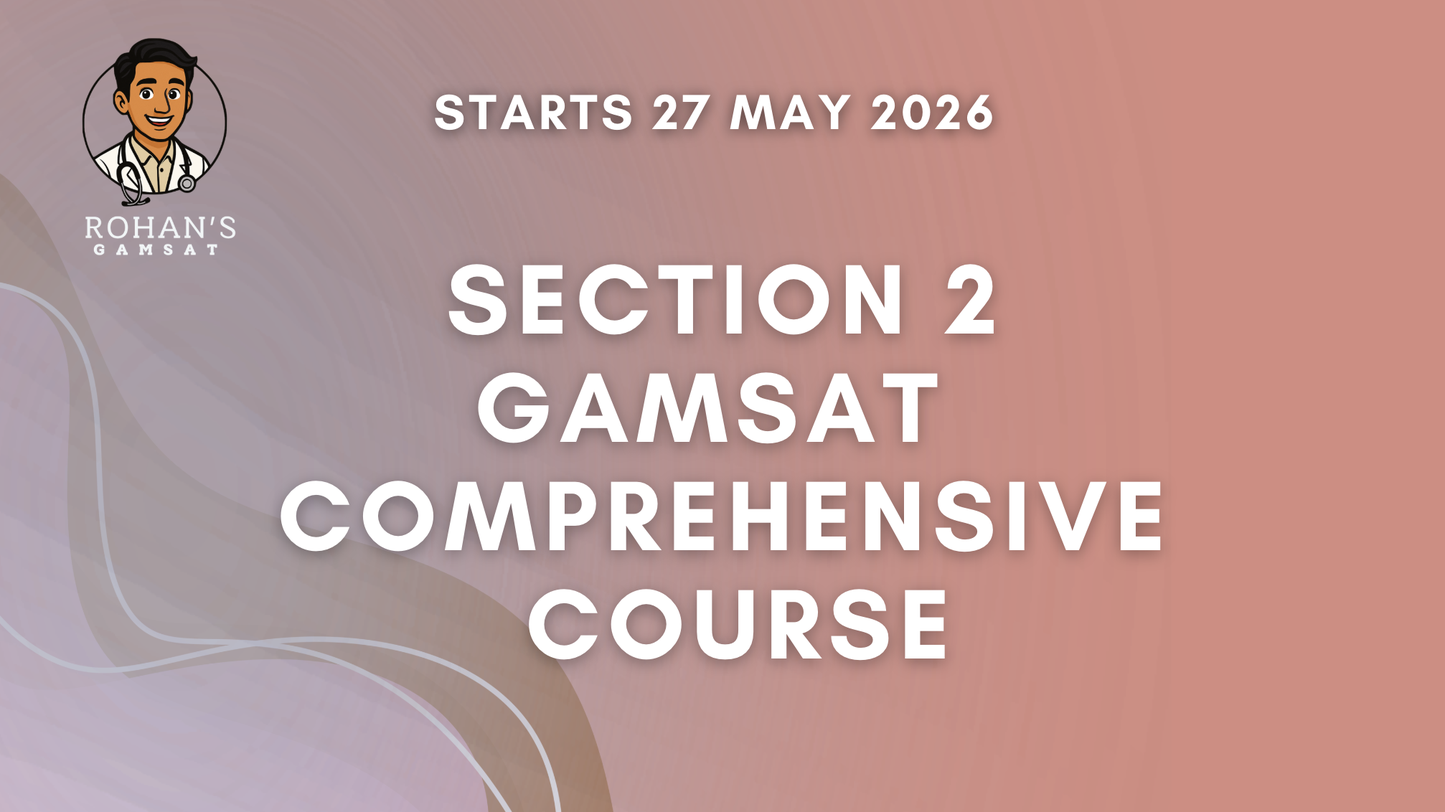
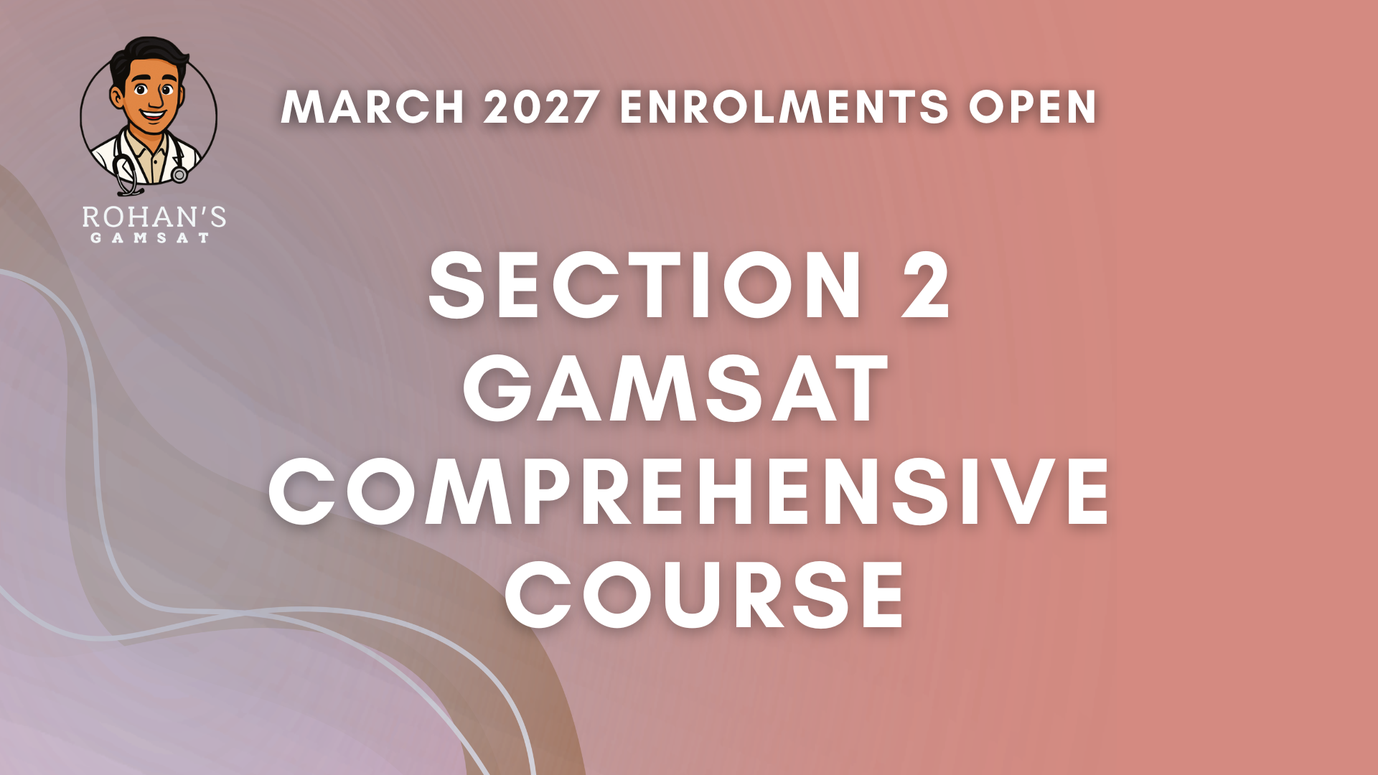
Update comprehensive course artwork and class counts
Replace the hero card images on the comprehensive, S1 and S2 course pages
with the new March 2027 artwork. Both PNG and WebP written; the new files
are smaller than the ones they replace.

Update the class counts to the current course structure: 12 classes per
section and 24 across the full course, previously 10 and 20. Duration
follows from that, ten weeks to twelve, applied across the three course
pages plus courses.html, mastery.html, blueprint.html, the catalog and the
comprehensive quiz email sequence.

Left alone deliberately: the private mentoring 10-class pack, which is a
different product, and the quiz's 10-week study plan, which is a plan
rather than the course length.

diff --git a/courses/comprehensive.html b/courses/comprehensive.html
@@ -7,16 +7,16 @@
   <script src="/js/analytics.js" defer></script>
   <script src="/js/posthog-init.js" defer></script>
   <title>GAMSAT Live Comprehensive Course | Rohan's GAMSAT</title>
-  <meta name="description" content="20 live coaching classes, essay feedback, 50+ hours of content, and a 100% refund guarantee. Make March 2027 your final GAMSAT sitting.">
+  <meta name="description" content="24 live coaching classes, essay feedback, 50+ hours of content, and a 100% refund guarantee. Make March 2027 your final GAMSAT sitting.">
   <meta property="og:title" content="GAMSAT Live Comprehensive Course: Make March 2027 Your Final Sitting">
-  <meta property="og:description" content="20 live coaching classes, essay feedback, 50+ hours of content, and a 100% refund guarantee. Make March 2027 your final GAMSAT sitting.">
+  <meta property="og:description" content="24 live coaching classes, essay feedback, 50+ hours of content, and a 100% refund guarantee. Make March 2027 your final GAMSAT sitting.">
   <meta property="og:image" content="https://www.rohanstutoring.com/assets/rohan/rohan-square-background.webp">
   <meta property="og:url" content="https://www.rohanstutoring.com/courses/comprehensive">
   <link rel="canonical" href="https://www.rohanstutoring.com/courses/comprehensive">
   <meta property="og:type" content="product">
   <meta name="twitter:card" content="summary_large_image">
   <meta name="twitter:title" content="GAMSAT Live Comprehensive Course: Make March 2027 Your Final Sitting">
-  <meta name="twitter:description" content="20 live classes, essay feedback, 50+ hours of content, 100% refund guarantee. $1,599 AUD.">
+  <meta name="twitter:description" content="24 live classes, essay feedback, 50+ hours of content, 100% refund guarantee. $1,599 AUD.">
   <meta name="twitter:image" content="https://www.rohanstutoring.com/assets/rohan/rohan-square-background.webp">
   <link rel="icon" href="../assets/favicon.ico">
   <link rel="icon" type="image/png" sizes="32x32" href="../assets/favicon-32x32.png">
@@ -418,7 +418,7 @@
     "@context": "https://schema.org",
     "@type": "Course",
     "name": "GAMSAT Live Comprehensive Course",
-    "description": "20 live coaching classes, essay feedback, 50+ hours of content, and a 100% refund guarantee. Covers GAMSAT Sections 1 and 2 with small, focused live instruction.",
+    "description": "24 live coaching classes, essay feedback, 50+ hours of content, and a 100% refund guarantee. Covers GAMSAT Sections 1 and 2 with small, focused live instruction.",
     "url": "https://www.rohanstutoring.com/courses/comprehensive",
     "provider": {
       "@type": "EducationalOrganization",
@@ -448,7 +448,7 @@
         "name": "How long is each class, and when do they run?",
         "acceptedAnswer": {
           "@type": "Answer",
-          "text": "Each session is 1 hour. Classes start late October and run for ten weeks. We confirm the exact weekly times before the first class, and every session is recorded if you cannot make one live."
+          "text": "Each session is 1 hour. Classes start late October and run for twelve weeks. We confirm the exact weekly times before the first class, and every session is recorded if you cannot make one live."
         }
       },
       {
@@ -598,7 +598,7 @@
         <span class="hero-v3__spots">Early bird</span>
         <span class="hero-v3__availability-copy">
           <span class="hero-v3__availability-main">$1,599 until 1 October, then $1,799.</span>
-          <span class="hero-v3__availability-sub">Classes start late October and run for ten weeks, up to the March 2027 sitting.</span>
+          <span class="hero-v3__availability-sub">Classes start late October and run for twelve weeks, up to the March 2027 sitting.</span>
         </span>
         <div class="hero-v3__countdown" data-countdown-v3 data-countdown-v3-target="2026-10-01T23:59:59+10:00" aria-label="Time remaining on early bird pricing">
           <span class="hero-v3__countdown-unit"><strong data-cd-days>00</strong><span>Days</span></span>
@@ -614,7 +614,7 @@
             Sit GAMSAT in March 2027. <em>Don't sit it again.</em>
           </h1>
           <p class="hero-v3__sub reveal reveal--delay-1 visible">
-            Ten weeks of live coaching, real essay feedback, and small, focused classes. The point isn't to cover more content. It's to walk into the exam already knowing how you'll handle it.
+            Twelve weeks of live coaching, real essay feedback, and small, focused classes. The point isn't to cover more content. It's to walk into the exam already knowing how you'll handle it.
           </p>
 
           <div class="hero-v3__proof reveal reveal--delay-2 visible">
@@ -658,8 +658,8 @@
             <img src="/assets/courses/comprehensive-course-card.webp" alt="GAMSAT Live Comprehensive Course" width="960" height="540" loading="eager" fetchpriority="high">
           </div>
           <div class="hero-v3__card-head">
-            <span class="hero-v3__card-eyebrow">10 weeks  20 live classes</span>
-            <h2>What the ten weeks actually look like.</h2>
+            <span class="hero-v3__card-eyebrow">12 weeks  24 live classes</span>
+            <h2>What the twelve weeks actually look like.</h2>
           </div>
           <ol class="hero-v3__roadmap">
             <li>
@@ -817,7 +817,7 @@
             <div class="value-item__num">02</div>
           </div>
           <div class="value-item__body">
-            <h3>20 Live Coaching Classes</h3>
+            <h3>24 Live Coaching Classes</h3>
             <p>20 live sessions on Zoom, each 1 hour. Classes stay small and focused, so every session is genuinely interactive. You can ask questions, clear up what's not landing, and leave each session with something concrete. The weekly schedule is confirmed before the first class in late October.</p>
             <span class="value-item__value">Value: $1,200</span>
           </div>
@@ -863,7 +863,7 @@
         <div class="value-summary__inner">
           <div class="value-summary__stack">
             <div class="value-summary__row"><span>GAMSAT Library (50+ hrs)</span><span>$299</span></div>
-            <div class="value-summary__row"><span>20 Live Classes</span><span>$1,200</span></div>
+            <div class="value-summary__row"><span>24 Live Classes</span><span>$1,200</span></div>
             <div class="value-summary__row"><span>250+ S1 Questions</span><span>$149</span></div>
             <div class="value-summary__row"><span>Live Essay Feedback</span><span>$200</span></div>
             <div class="value-summary__row"><span>Direct Access to Rohan</span><span>$999</span></div>
@@ -876,7 +876,7 @@
               <span class="value-summary__label">Early bird · closes 1 October</span>
             </div>
             <a href="/checkout/?product=comprehensive" class="btn btn--primary btn--lg">Enrol Now →</a>
-            <p class="value-summary__note">Enrol before 1 October and you pay $1,599 instead of $1,799. Classes start late October and run for ten weeks.</p>
+            <p class="value-summary__note">Enrol before 1 October and you pay $1,599 instead of $1,799. Classes start late October and run for twelve weeks.</p>
           </div>
         </div>
       </div>
@@ -987,7 +987,7 @@
       <div class="faq__list">
         <details class="faq__item reveal">
           <summary>How long is each class, and when do they run?</summary>
-          <div class="faq__answer"><p>Each session is 1 hour. Classes start late October and run for ten weeks. We confirm the exact weekly times before the first class, and every session is recorded if you cannot make one live.</p></div>
+          <div class="faq__answer"><p>Each session is 1 hour. Classes start late October and run for twelve weeks. We confirm the exact weekly times before the first class, and every session is recorded if you cannot make one live.</p></div>
         </details>
         <details class="faq__item reveal">
           <summary>Are the live classes recorded?</summary>
@@ -1019,7 +1019,7 @@
     <div class="container">
       <div class="product-final-cta__inner reveal">
         <h2>Enrolments are<br><em>open.</em></h2>
-        <p>Early bird pricing closes 1 October. Classes start late October and run for ten weeks, up to the March 2027 sitting.</p>
+        <p>Early bird pricing closes 1 October. Classes start late October and run for twelve weeks, up to the March 2027 sitting.</p>
         <a href="/checkout/?product=comprehensive" class="btn btn--white btn--lg">Enrol for $1,599 →</a>
         <p class="product-final-cta__note">$1,599 AUD until 1 October, then $1,799 · 100% refund guarantee · Weekly class times confirmed before the first class</p>
       </div>

diff --git a/courses/s1-comprehensive.html b/courses/s1-comprehensive.html
@@ -7,16 +7,16 @@
   <script src="/js/analytics.js" defer></script>
   <script src="/js/posthog-init.js" defer></script>
   <title>Section 1 GAMSAT Comprehensive Course | Rohan's GAMSAT</title>
-  <meta name="description" content="10 live Section 1 coaching classes, 250+ targeted S1 questions, 50+ hours of recorded content, and a 100% refund guarantee.">
+  <meta name="description" content="12 live Section 1 coaching classes, 250+ targeted S1 questions, 50+ hours of recorded content, and a 100% refund guarantee.">
   <meta property="og:title" content="Section 1 GAMSAT Comprehensive Course">
-  <meta property="og:description" content="10 live S1 coaching classes, 250+ targeted questions, 50+ hours of content, and a 100% refund guarantee.">
+  <meta property="og:description" content="12 live S1 coaching classes, 250+ targeted questions, 50+ hours of content, and a 100% refund guarantee.">
   <meta property="og:image" content="https://www.rohanstutoring.com/assets/rohan/rohan-square-background.webp">
   <meta property="og:url" content="https://www.rohanstutoring.com/courses/s1-comprehensive">
   <link rel="canonical" href="https://www.rohanstutoring.com/courses/s1-comprehensive">
   <meta property="og:type" content="product">
   <meta name="twitter:card" content="summary_large_image">
   <meta name="twitter:title" content="Section 1 GAMSAT Comprehensive Course">
-  <meta name="twitter:description" content="10 live S1 classes, 250+ targeted questions, 50+ hours of content, 100% refund guarantee. $999 AUD.">
+  <meta name="twitter:description" content="12 live S1 classes, 250+ targeted questions, 50+ hours of content, 100% refund guarantee. $999 AUD.">
   <meta name="twitter:image" content="https://www.rohanstutoring.com/assets/rohan/rohan-square-background.webp">
   <link rel="icon" href="../assets/favicon.ico">
   <link rel="icon" type="image/png" sizes="32x32" href="../assets/favicon-32x32.png">
@@ -35,7 +35,7 @@
     "@context": "https://schema.org",
     "@type": "Course",
     "name": "Section 1 GAMSAT Comprehensive Course",
-    "description": "10 live Section 1 coaching classes, 250+ targeted S1 questions, 50+ hours of recorded content, and a 100% refund guarantee. Small-cohort live instruction.",
+    "description": "12 live Section 1 coaching classes, 250+ targeted S1 questions, 50+ hours of recorded content, and a 100% refund guarantee. Small-cohort live instruction.",
     "url": "https://www.rohanstutoring.com/courses/s1-comprehensive",
     "provider": {
       "@type": "EducationalOrganization",
@@ -229,7 +229,7 @@
           <div class="product-hero__card-details">
             <div class="detail-row"><span>Next Intake</span><strong>Schedule confirmed before classes begin</strong></div>
             <div class="detail-row"><span>Format</span><strong>Live online via Zoom</strong></div>
-            <div class="detail-row"><span>Duration</span><strong>10 weeks  10 live S1 classes</strong></div>
+            <div class="detail-row"><span>Duration</span><strong>12 weeks  12 live S1 classes</strong></div>
             <div class="detail-row"><span>Schedule</span><strong>Weekly time confirmed before classes begin</strong></div>
             <div class="detail-row"><span>Cohort</span><strong>Small, intentionally limited</strong></div>
           </div>
@@ -390,7 +390,7 @@
         <div class="value-summary__inner">
           <div class="value-summary__stack">
             <div class="value-summary__row"><span>GAMSAT Library (50+ hrs)</span><span>$299</span></div>
-            <div class="value-summary__row"><span>10 Live S1 Classes</span><span>$600</span></div>
+            <div class="value-summary__row"><span>12 Live S1 Classes</span><span>$600</span></div>
             <div class="value-summary__row"><span>250+ S1 Questions</span><span>$149</span></div>
             <div class="value-summary__row"><span>Direct Access to Rohan</span><span>$499</span></div>
             <div class="value-summary__row"><span>Onboarding Call</span><span>$119</span></div>
@@ -402,7 +402,7 @@
               <span class="value-summary__label">Section 1 only</span>
             </div>
             <a href="/checkout/?product=s1-comprehensive" class="btn btn--primary btn--lg">Enrol Now →</a>
-                        <p class="value-summary__note">Classes start late October and run for ten weeks, up to the March 2027 sitting.</p>
+                        <p class="value-summary__note">Classes start late October and run for twelve weeks, up to the March 2027 sitting.</p>
           </div>
         </div>
       </div>
@@ -416,7 +416,7 @@
         <div>
           <span class="upsell-band__eyebrow">Sitting both sections?</span>
           <h2>Get S1 + S2 together and save $299.</h2>
-          <p>Most students sit both sections. The full <strong>Comprehensive Course</strong> bundles 20 live classes (S1 + S2), live essay feedback, and the same library, all for $1,599, versus $1,998 if you enrol in both single-section courses separately.</p>
+          <p>Most students sit both sections. The full <strong>Comprehensive Course</strong> bundles 24 live classes (S1 + S2), live essay feedback, and the same library, all for $1,599, versus $1,998 if you enrol in both single-section courses separately.</p>
           <p class="upsell-band__price"><s>$999 + $999 = $1,998</s> &nbsp;&nbsp; <strong>Comprehensive: $1,599</strong></p>
         </div>
         <div class="upsell-band__cta">

diff --git a/courses/s2-comprehensive.html b/courses/s2-comprehensive.html
@@ -7,16 +7,16 @@
   <script src="/js/analytics.js" defer></script>
   <script src="/js/posthog-init.js" defer></script>
   <title>Section 2 GAMSAT Comprehensive Course | Rohan's GAMSAT</title>
-  <meta name="description" content="10 live Section 2 coaching classes, live essay feedback, 50+ hours of recorded content, and a 100% refund guarantee.">
+  <meta name="description" content="12 live Section 2 coaching classes, live essay feedback, 50+ hours of recorded content, and a 100% refund guarantee.">
   <meta property="og:title" content="Section 2 GAMSAT Comprehensive Course">
-  <meta property="og:description" content="10 live S2 coaching classes, live essay feedback, 50+ hours of content, and a 100% refund guarantee.">
+  <meta property="og:description" content="12 live S2 coaching classes, live essay feedback, 50+ hours of content, and a 100% refund guarantee.">
   <meta property="og:image" content="https://www.rohanstutoring.com/assets/rohan/rohan-square-background.webp">
   <meta property="og:url" content="https://www.rohanstutoring.com/courses/s2-comprehensive">
   <link rel="canonical" href="https://www.rohanstutoring.com/courses/s2-comprehensive">
   <meta property="og:type" content="product">
   <meta name="twitter:card" content="summary_large_image">
   <meta name="twitter:title" content="Section 2 GAMSAT Comprehensive Course">
-  <meta name="twitter:description" content="10 live S2 classes, live essay feedback, 50+ hours of content, 100% refund guarantee. $999 AUD.">
+  <meta name="twitter:description" content="12 live S2 classes, live essay feedback, 50+ hours of content, 100% refund guarantee. $999 AUD.">
   <meta name="twitter:image" content="https://www.rohanstutoring.com/assets/rohan/rohan-square-background.webp">
   <link rel="icon" href="../assets/favicon.ico">
   <link rel="icon" type="image/png" sizes="32x32" href="../assets/favicon-32x32.png">
@@ -35,7 +35,7 @@
     "@context": "https://schema.org",
     "@type": "Course",
     "name": "Section 2 GAMSAT Comprehensive Course",
-    "description": "10 live Section 2 coaching classes, live essay feedback, 50+ hours of recorded content, and a 100% refund guarantee. Small-cohort live instruction.",
+    "description": "12 live Section 2 coaching classes, live essay feedback, 50+ hours of recorded content, and a 100% refund guarantee. Small-cohort live instruction.",
     "url": "https://www.rohanstutoring.com/courses/s2-comprehensive",
     "provider": {
       "@type": "EducationalOrganization",
@@ -229,7 +229,7 @@
           <div class="product-hero__card-details">
             <div class="detail-row"><span>Next Intake</span><strong>Schedule confirmed before classes begin</strong></div>
             <div class="detail-row"><span>Format</span><strong>Live online via Zoom</strong></div>
-            <div class="detail-row"><span>Duration</span><strong>10 weeks  10 live S2 classes</strong></div>
+            <div class="detail-row"><span>Duration</span><strong>12 weeks  12 live S2 classes</strong></div>
             <div class="detail-row"><span>Schedule</span><strong>Weekly time confirmed before classes begin</strong></div>
             <div class="detail-row"><span>Cohort</span><strong>Small, intentionally limited</strong></div>
           </div>
@@ -401,7 +401,7 @@
         <div class="value-summary__inner">
           <div class="value-summary__stack">
             <div class="value-summary__row"><span>GAMSAT Library (50+ hrs)</span><span>$299</span></div>
-            <div class="value-summary__row"><span>10 Live S2 Classes</span><span>$600</span></div>
+            <div class="value-summary__row"><span>12 Live S2 Classes</span><span>$600</span></div>
             <div class="value-summary__row"><span>Live Essay Feedback</span><span>$200</span></div>
             <div class="value-summary__row"><span>Direct Access to Rohan</span><span>$499</span></div>
             <div class="value-summary__row"><span>Onboarding Call</span><span>$119</span></div>
@@ -414,7 +414,7 @@
               <span class="value-summary__label">Section 2 only</span>
             </div>
             <a href="/checkout/?product=s2-comprehensive" class="btn btn--primary btn--lg">Enrol Now →</a>
-                        <p class="value-summary__note">Classes start late October and run for ten weeks, up to the March 2027 sitting.</p>
+                        <p class="value-summary__note">Classes start late October and run for twelve weeks, up to the March 2027 sitting.</p>
           </div>
         </div>
       </div>
@@ -428,7 +428,7 @@
         <div>
           <span class="upsell-band__eyebrow">Sitting both sections?</span>
           <h2>Get S1 + S2 together and save $299.</h2>
-          <p>Most students sit both sections. The full <strong>Comprehensive Course</strong> bundles 20 live classes (S1 + S2), live essay feedback, and the same library, all for $1,599, versus $1,998 if you enrol in both single-section courses separately.</p>
+          <p>Most students sit both sections. The full <strong>Comprehensive Course</strong> bundles 24 live classes (S1 + S2), live essay feedback, and the same library, all for $1,599, versus $1,998 if you enrol in both single-section courses separately.</p>
           <p class="upsell-band__price"><s>$999 + $999 = $1,998</s> &nbsp;&nbsp; <strong>Comprehensive: $1,599</strong></p>
         </div>
         <div class="upsell-band__cta">

diff --git a/courses/blueprint.html b/courses/blueprint.html
@@ -82,7 +82,7 @@
         "name": "What's the difference between this and the Comprehensive Course?",
         "acceptedAnswer": {
           "@type": "Answer",
-          "text": "The Blueprint is entirely self-paced. You watch, study, and apply on your own schedule. The Comprehensive Course adds 20 live coaching classes, real-time essay feedback, and direct access to Rohan. If you need accountability and live coaching, the Comprehensive Course is the better fit."
+          "text": "The Blueprint is entirely self-paced. You watch, study, and apply on your own schedule. The Comprehensive Course adds 24 live coaching classes, real-time essay feedback, and direct access to Rohan. If you need accountability and live coaching, the Comprehensive Course is the better fit."
         }
       },
       {
@@ -523,7 +523,7 @@
       <div class="faq__list">
         <details class="faq__item reveal"><summary>How long do I have access?</summary><div class="faq__answer"><p>Lifetime. Once you purchase, the content is yours. No subscription, no expiry. Come back for your next sitting or revisit sections whenever you need.</p></div></details>
         <details class="faq__item reveal reveal--delay-1"><summary>Is this suitable if I've never sat the GAMSAT before?</summary><div class="faq__answer"><p>Yes. The S1 & S2 Mastery Course inside the Blueprint starts from the foundations. The Advanced Series builds on that, so the progression is built in.</p></div></details>
-        <details class="faq__item reveal reveal--delay-2"><summary>What's the difference between this and the Comprehensive Course?</summary><div class="faq__answer"><p>The Blueprint is entirely self-paced. You watch, study, and apply on your own schedule. The Comprehensive Course adds 20 live coaching classes, real-time essay feedback, and direct access to Rohan. If you need accountability and live coaching, the Comprehensive Course is the better fit.</p></div></details>
+        <details class="faq__item reveal reveal--delay-2"><summary>What's the difference between this and the Comprehensive Course?</summary><div class="faq__answer"><p>The Blueprint is entirely self-paced. You watch, study, and apply on your own schedule. The Comprehensive Course adds 24 live coaching classes, real-time essay feedback, and direct access to Rohan. If you need accountability and live coaching, the Comprehensive Course is the better fit.</p></div></details>
         <details class="faq__item reveal reveal--delay-3"><summary>Can I access it on my phone or tablet?</summary><div class="faq__answer"><p>Yes. The content streams on any device.</p></div></details>
       </div>
     </div>

diff --git a/courses.html b/courses.html
@@ -138,9 +138,9 @@
                 <span class="badge badge--live"><span class="badge__dot"></span> Enrolling Now</span>
               </div>
               <h3>GAMSAT Live Comprehensive Course</h3>
-              <p>20 live coaching classes. Essay feedback. 50+ hours of recorded content. The full system for S1 and S2. Enrolling now at $1,599 until 1 October, then $1,799.</p>
+              <p>24 live coaching classes. Essay feedback. 50+ hours of recorded content. The full system for S1 and S2. Enrolling now at $1,599 until 1 October, then $1,799.</p>
               <div class="hero-promo-card__includes">
-                <span>✓ 20 live classes</span>
+                <span>✓ 24 live classes</span>
                 <span>✓ Essay feedback</span>
                 <span>✓ 50+ hr library</span>
                 <span>✓ 100% refund guarantee</span>
@@ -266,7 +266,7 @@
             <div class="course-tile__body">
               <span class="course-tile__tag">Live Coaching</span>
               <h3>Section 1 Comprehensive Course</h3>
-              <p>10 live S1 classes, 250+ targeted questions, 50+ hour library, refund guarantee. Weekly times confirmed before classes begin.</p>
+              <p>12 live S1 classes, 250+ targeted questions, 50+ hour library, refund guarantee. Weekly times confirmed before classes begin.</p>
               <div class="course-tile__footer">
                 <span class="course-tile__price">$999</span>
                 <span class="course-tile__cta">View Course →</span>
@@ -284,7 +284,7 @@
             <div class="course-tile__body">
               <span class="course-tile__tag">Live Coaching</span>
               <h3>Section 2 Comprehensive Course</h3>
-              <p>10 live S2 classes, live essay feedback, 50+ hour library, refund guarantee. Weekly times confirmed before classes begin.</p>
+              <p>12 live S2 classes, live essay feedback, 50+ hour library, refund guarantee. Weekly times confirmed before classes begin.</p>
               <div class="course-tile__footer">
                 <span class="course-tile__price">$999</span>
                 <span class="course-tile__cta">View Course →</span>

diff --git a/courses/mastery.html b/courses/mastery.html
@@ -85,7 +85,7 @@
         "name": "What's included from the Comprehensive Course?",
         "acceptedAnswer": {
           "@type": "Answer",
-          "text": "Everything. All 20 live classes (S1 and S2), the same 50+ hour Blueprint library delivered via Google Drive, 250+ targeted S1 questions, live essay feedback sessions, and direct coaching access throughout."
+          "text": "Everything. All 24 live classes (S1 and S2), the same 50+ hour Blueprint library delivered via Google Drive, 250+ targeted S1 questions, live essay feedback sessions, and direct coaching access throughout."
         }
       },
       {
@@ -363,7 +363,7 @@
         <div class="mastery-foundation__grid">
           <div class="mastery-foundation__item">
             <span class="mastery-foundation__check">✓</span>
-            <span>20 live coaching classes (S1 + S2)</span>
+            <span>24 live coaching classes (S1 + S2)</span>
           </div>
           <div class="mastery-foundation__item">
             <span class="mastery-foundation__check">✓</span>
@@ -579,7 +579,7 @@
         </details>
         <details class="faq__item reveal reveal--delay-3">
           <summary>What's included from the Comprehensive Course?</summary>
-          <div class="faq__answer"><p>Everything. All 20 live classes (S1 and S2), the same 50+ hour Blueprint library delivered via Google Drive, 250+ targeted S1 questions, live essay feedback sessions, the Expert Essay Collection, and direct coaching access throughout.</p></div>
+          <div class="faq__answer"><p>Everything. All 24 live classes (S1 and S2), the same 50+ hour Blueprint library delivered via Google Drive, 250+ targeted S1 questions, live essay feedback sessions, the Expert Essay Collection, and direct coaching access throughout.</p></div>
         </details>
         <details class="faq__item reveal reveal--delay-4">
           <summary>How does the refund guarantee work?</summary>

diff --git a/js/catalog.js b/js/catalog.js
@@ -336,7 +336,7 @@
       tagline: '',
       features: [
         '50+ hours of recorded library content',
-        '20 live coaching classes',
+        '24 live coaching classes',
         'Live essay feedback in every class',
         'Direct access to Rohan',
         '100% refund guarantee',

diff --git a/docs/email-sequences/comprehensive-quiz-result-sequence.md b/docs/email-sequences/comprehensive-quiz-result-sequence.md
@@ -13,7 +13,7 @@ Sequence goal: move qualified quiz leads from "I need a serious plan" to enrolme
 Source facts used from the site:
 
 - 12 weeks
-- 20 live classes
+- 24 live classes
 - 50+ hours of recorded teaching
 - Weekly live structure across S1 and S2
 - Tuesdays 6pm, currently described on the site as AEDT
@@ -79,7 +79,7 @@ You have enough runway to make real movement before the exam. A quick PDF or a f
 
 The gap is closeable. But it needs structure.
 
-The Comprehensive Course is built for that middle zone where you are serious, but not quite where you want to be yet. You get 12 weeks of live coaching, 20 live classes, 50+ hours of recorded teaching, monthly essay feedback from Rohan, and small, focused classes where you can actually ask questions.
+The Comprehensive Course is built for that middle zone where you are serious, but not quite where you want to be yet. You get 12 weeks of live coaching, 24 live classes, 50+ hours of recorded teaching, monthly essay feedback from Rohan, and small, focused classes where you can actually ask questions.
 
 The point is not to drown you in more content.
 
@@ -323,7 +323,7 @@ That is what the course is for.
 
 12 weeks.
 
-20 live classes.
+24 live classes.
 
 50+ hours of recorded teaching.
 
